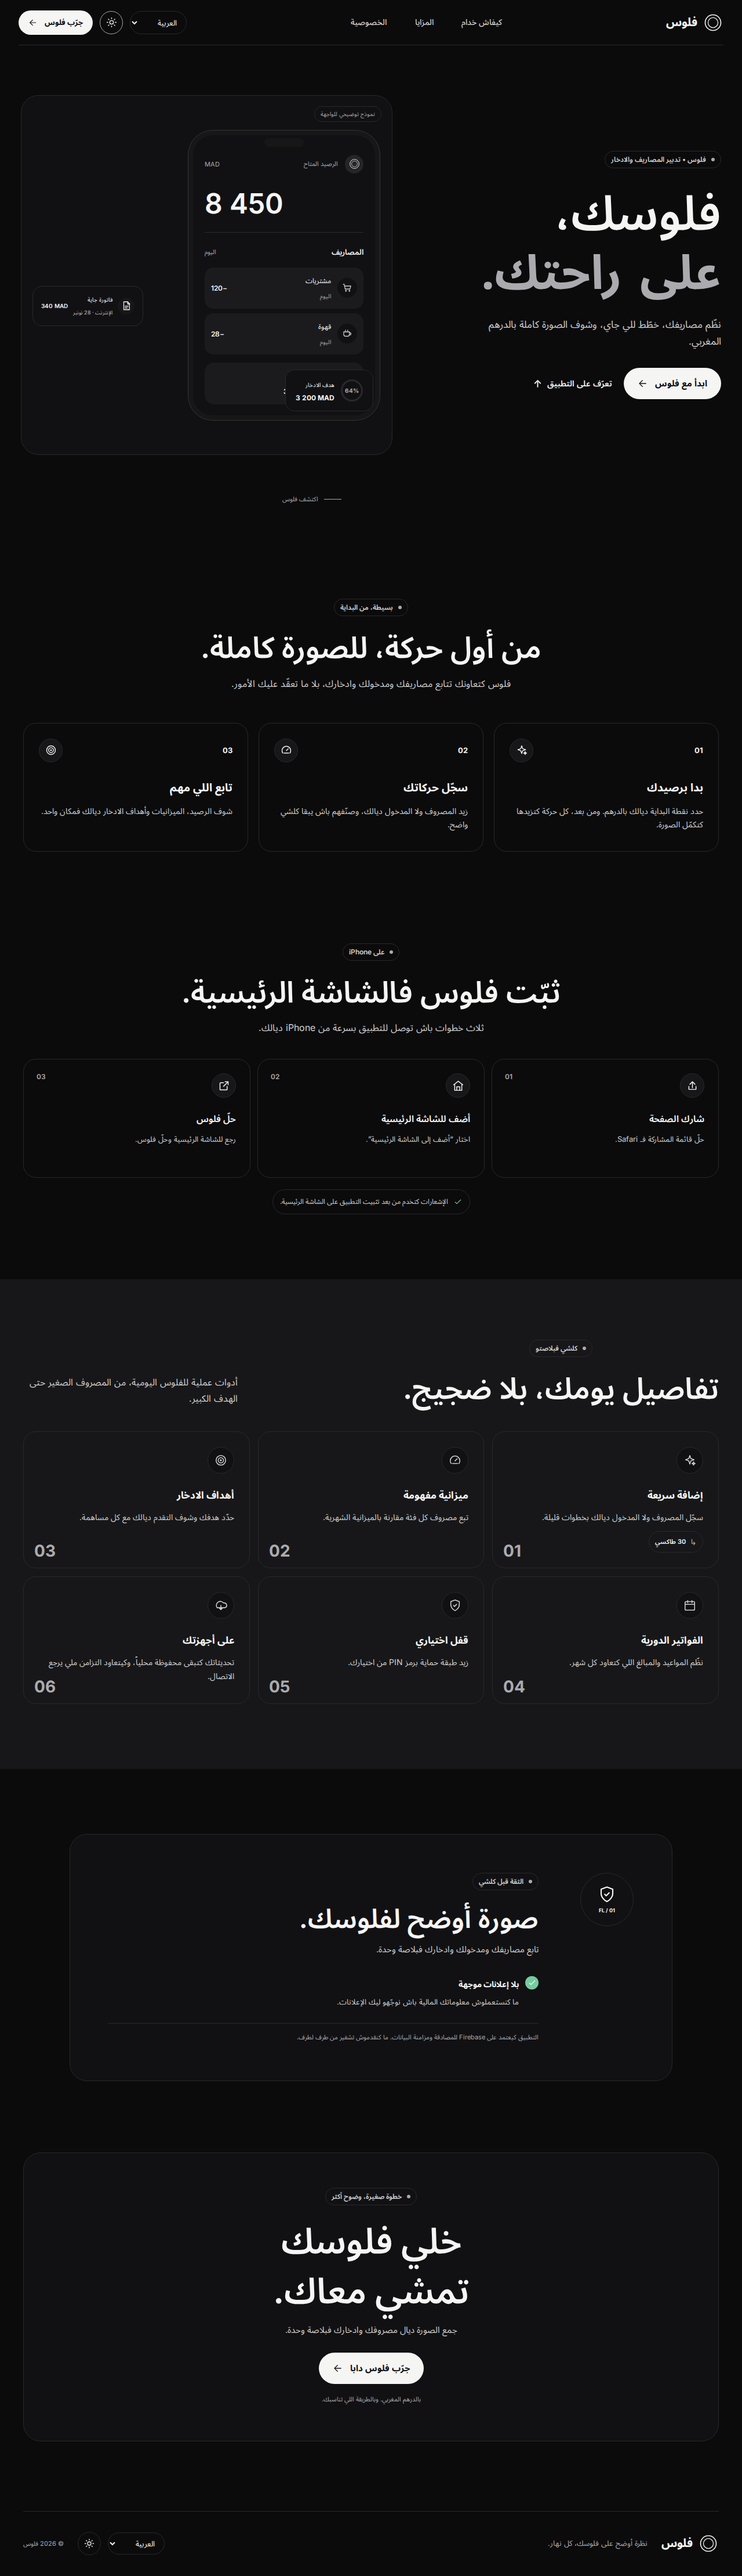
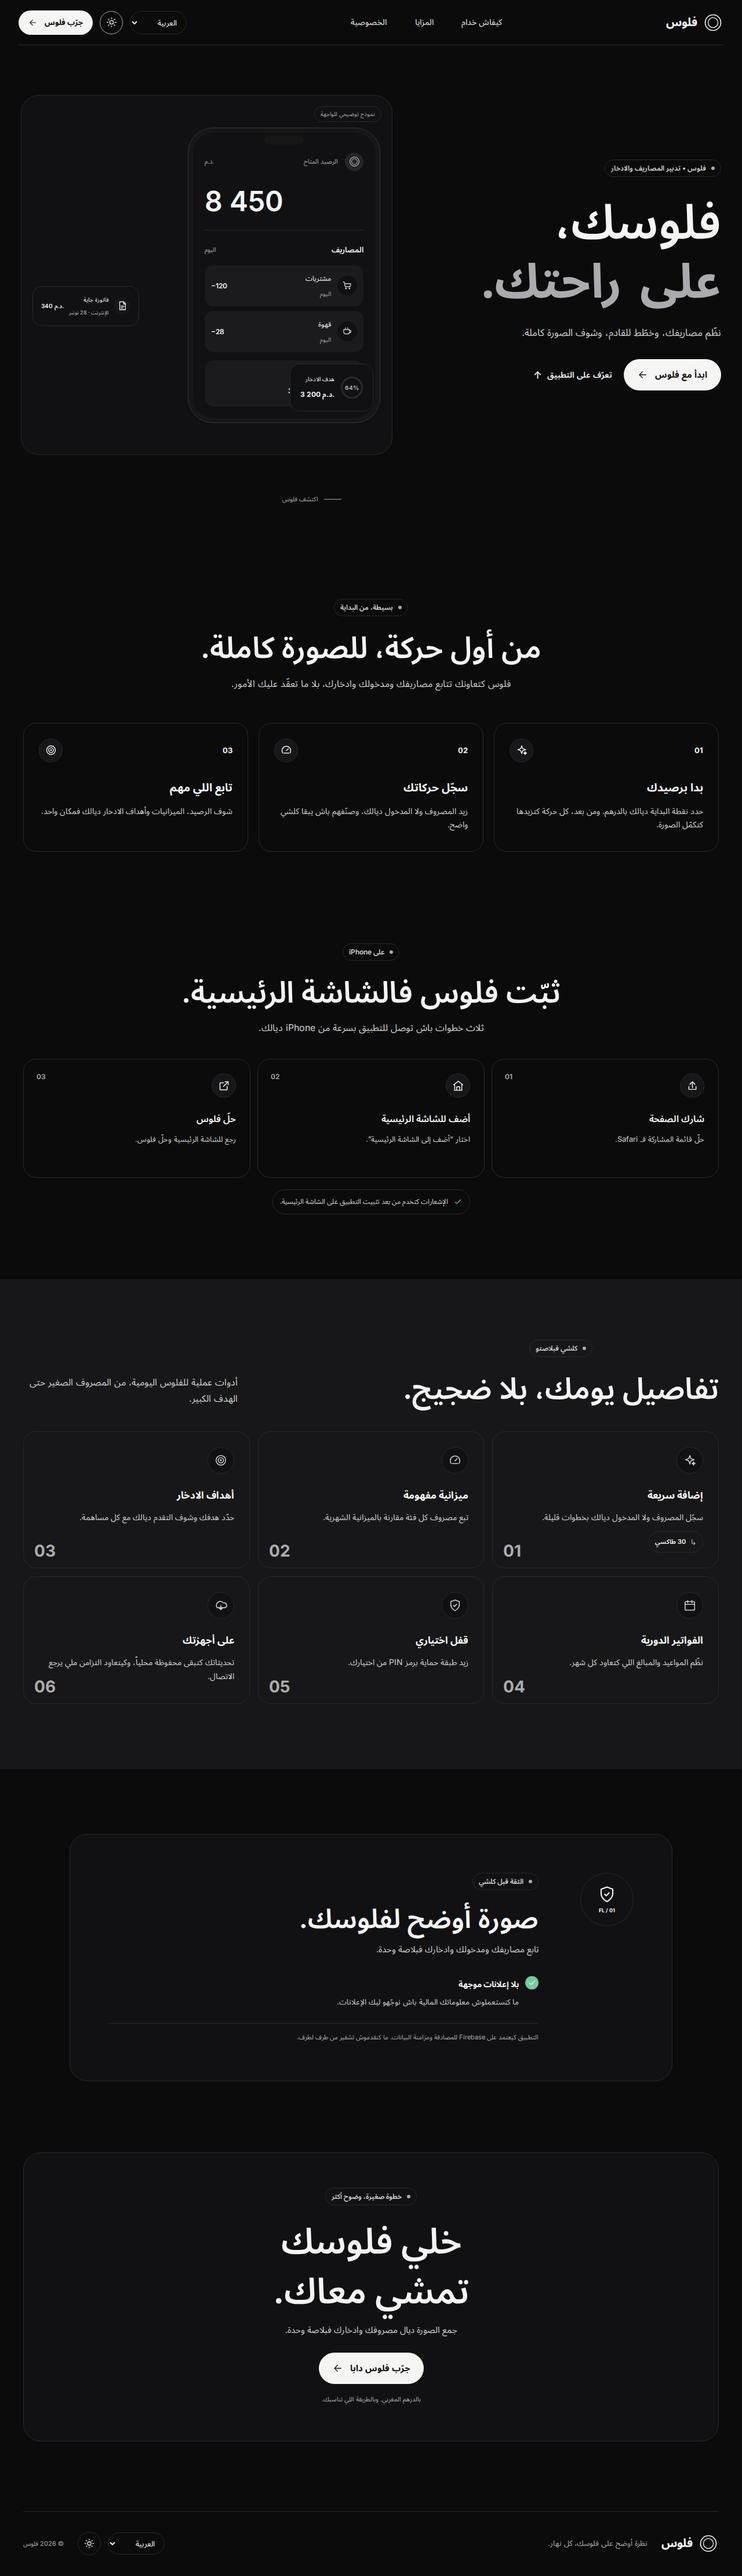
Update Arabic landing copy and currency

Changed region(s): [[0.6562, 0.0622, 0.9688, 0.1554], [0.2812, 0.0622, 0.375, 0.0932], [0.4062, 0.1243, 0.4688, 0.1554]]

diff --git a/landing/src/components/HeroStage.tsx b/landing/src/components/HeroStage.tsx
@@ -3,9 +3,9 @@ import type { Locale } from '../copy';
 type Props = { locale: Locale; mockupLabel: string; balanceLabel: string };
 
 const labels = {
-  ar: { spend: 'المصاريف', today: 'اليوم', groceries: 'مشتريات', coffee: 'قهوة', saved: 'هدف الادخار', bill: 'فاتورة جاية', billName: 'الإنترنت', due: '28 نونبر' },
-  fr: { spend: 'Dépenses', today: 'Aujourd’hui', groceries: 'Courses', coffee: 'Café', saved: 'Objectif d’épargne', bill: 'Facture à venir', billName: 'Internet', due: '28 nov.' },
-  en: { spend: 'Spending', today: 'Today', groceries: 'Groceries', coffee: 'Coffee', saved: 'Savings goal', bill: 'Upcoming bill', billName: 'Internet', due: 'Nov 28' },
+  ar: { spend: 'المصاريف', today: 'اليوم', groceries: 'مشتريات', coffee: 'قهوة', saved: 'هدف الادخار', bill: 'فاتورة جاية', billName: 'الإنترنت', due: '28 نونبر', currency: 'د.م.' },
+  fr: { spend: 'Dépenses', today: 'Aujourd’hui', groceries: 'Courses', coffee: 'Café', saved: 'Objectif d’épargne', bill: 'Facture à venir', billName: 'Internet', due: '28 nov.', currency: 'MAD' },
+  en: { spend: 'Spending', today: 'Today', groceries: 'Groceries', coffee: 'Coffee', saved: 'Savings goal', bill: 'Upcoming bill', billName: 'Internet', due: 'Nov 28', currency: 'MAD' },
 } satisfies Record<Locale, Record<string, string>>;
 
 export function HeroStage({ locale, mockupLabel, balanceLabel }: Props) {
@@ -24,7 +24,7 @@ export function HeroStage({ locale, mockupLabel, balanceLabel }: Props) {
             </svg>
           </span>
           <span className="hero-stage__balance-label">{balanceLabel}</span>
-          <span className="hero-stage__currency">MAD</span>
+          <span className="hero-stage__currency"><bdi dir="ltr">{copy.currency}</bdi></span>
         </div>
         <div className="hero-stage__balance" dir="ltr">8 450</div>
         <div className="hero-stage__divider" />
@@ -38,7 +38,7 @@ export function HeroStage({ locale, mockupLabel, balanceLabel }: Props) {
             </svg>
           </span>
           <span>{copy.groceries}<small>{copy.today}</small></span>
-          <strong>−120</strong>
+          <strong><bdi dir="ltr">−120</bdi></strong>
         </div>
         <div className="hero-stage__transaction">
           <span className="hero-stage__transaction-icon">
@@ -49,17 +49,17 @@ export function HeroStage({ locale, mockupLabel, balanceLabel }: Props) {
             </svg>
           </span>
           <span>{copy.coffee}<small>{copy.today}</small></span>
-          <strong>−28</strong>
+          <strong><bdi dir="ltr">−28</bdi></strong>
         </div>
         <div className="hero-stage__goal">
           <div className="hero-stage__progress"><span>64%</span></div>
-          <div><small>{copy.saved}</small><strong dir="ltr">3 200 MAD</strong></div>
+          <div><small>{copy.saved}</small><strong dir="ltr">3 200 <bdi dir="ltr">{copy.currency}</bdi></strong></div>
         </div>
         </div>
       </div>
       <div className="hero-stage__goal-chip">
         <span className="hero-stage__mini-progress">64%</span>
-        <span>{copy.saved}<strong dir="ltr">3 200 MAD</strong></span>
+        <span>{copy.saved}<strong dir="ltr">3 200 <bdi dir="ltr">{copy.currency}</bdi></strong></span>
       </div>
       <div className="hero-stage__bill-chip">
         <span className="hero-stage__bill-icon" aria-hidden="true">
@@ -69,7 +69,7 @@ export function HeroStage({ locale, mockupLabel, balanceLabel }: Props) {
           </svg>
         </span>
         <span>{copy.bill}<strong>{copy.billName} · {copy.due}</strong></span>
-        <b dir="ltr">340 MAD</b>
+        <b dir="ltr">340 <bdi dir="ltr">{copy.currency}</bdi></b>
       </div>
     </div>
   );

diff --git a/landing/index.html b/landing/index.html
@@ -13,6 +13,9 @@
     <link rel="icon" type="image/svg+xml" href="/favicon.svg" />
     <link rel="preconnect" href="https://fonts.googleapis.com" />
     <link rel="preconnect" href="https://fonts.gstatic.com" crossorigin />
+    <link rel="preload" href="https://fonts.gstatic.com/s/notosansarabic/v33/nwpCtLGrOAZMl5nJ_wfgRg3DrWFZWsnVBJ_sS6tlqHHFlj41v4rqxzLI.woff2" as="font" type="font/woff2" crossorigin />
+    <link rel="preload" href="https://fonts.gstatic.com/s/notosansarabic/v33/nwpCtLGrOAZMl5nJ_wfgRg3DrWFZWsnVBJ_sS6tlqHHFlj4wv4rqxzLIhjE.woff2" as="font" type="font/woff2" crossorigin />
+    <link rel="preload" href="https://fonts.gstatic.com/s/inter/v20/UcC73FwrK3iLTeHuS_nVMrMxCp50SjIa1ZL7W0Q5nw.woff2" as="font" type="font/woff2" crossorigin />
     <link rel="preload" as="style" href="https://fonts.googleapis.com/css2?family=Instrument+Serif:ital@0;1&family=Inter:wght@400;500;600;700&family=Noto+Sans+Arabic:wght@400;500;600;700&display=swap" onload="this.onload=null;this.rel='stylesheet'" />
     <noscript><link href="https://fonts.googleapis.com/css2?family=Instrument+Serif:ital@0;1&family=Inter:wght@400;500;600;700&family=Noto+Sans+Arabic:wght@400;500;600;700&display=swap" rel="stylesheet" /></noscript>
     <meta property="og:type" content="website" />

diff --git a/landing/src/copy.test.ts b/landing/src/copy.test.ts
@@ -5,6 +5,7 @@ describe('localized landing copy', () => {
   it('provides complete localized page sections for the three supported locales', () => {
     expect(Object.keys(copy).sort()).toEqual(['ar', 'en', 'fr']);
     for (const locale of Object.keys(copy) as Array<keyof typeof copy>) {
+      expect(copy[locale].hero.description).not.toBe('');
       expect(copy[locale].steps).toHaveLength(3);
       expect(copy[locale].features.items).toHaveLength(6);
       expect(copy[locale].install.steps).toHaveLength(3);
@@ -18,6 +19,7 @@ describe('localized landing copy', () => {
       expect(JSON.stringify(copy[locale])).not.toMatch(/\boffline\b|\bhors[- ]ligne\b|بدون إنترنت|دون اتصال/i);
       expect(localeLabels[locale]).not.toBe('');
     }
+    expect(copy.ar.hero.description).toBe('نظّم مصاريفك، وخطّط للقادم، وشوف الصورة كاملة.');
   });
 
   it('includes the quick-entry example and accurate locally saved sync behavior', () => {

diff --git a/landing/src/copy.ts b/landing/src/copy.ts
@@ -19,7 +19,7 @@ export const copy: Record<Locale, Copy> = {
       eyebrow: 'فلوس • تدبير المصاريف والادخار',
       title: 'فلوسك،',
       accent: 'على راحتك.',
-      description: 'نظّم مصاريفك، خطّط للي جاي، وشوف الصورة كاملة بالدرهم المغربي.',
+      description: 'نظّم مصاريفك، وخطّط للقادم، وشوف الصورة كاملة.',
       primary: 'ابدأ مع فلوس',
       secondary: 'تعرّف على التطبيق',
       scroll: 'اكتشف فلوس',

diff --git a/landing/src/styles.css b/landing/src/styles.css
@@ -1837,3 +1837,12 @@ select:focus-visible {
   color: var(--text-soft);
   background: var(--surface);
 }
+
+.hero__description {
+  max-width: 34ch;
+  text-wrap: balance;
+}
+
+[dir='rtl'] .hero__description {
+  letter-spacing: 0;
+}
